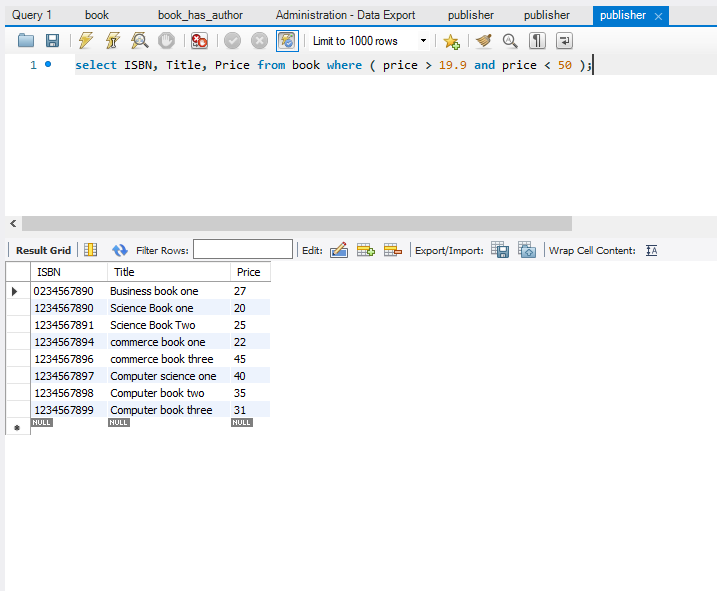
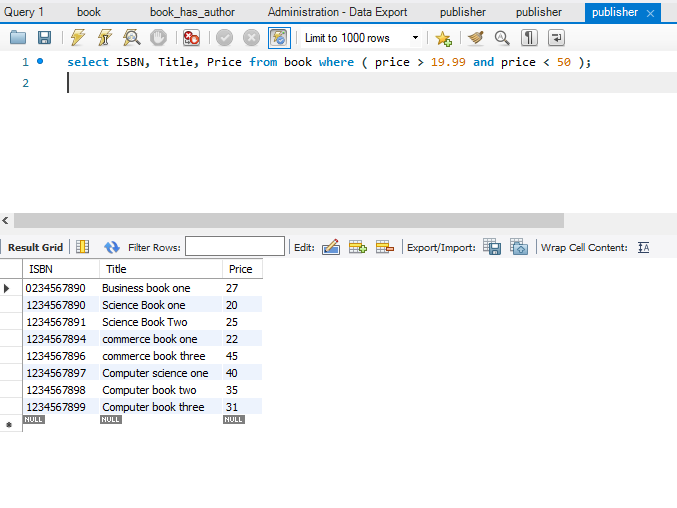
change image

Changed region(s): [[0.0, 0.3543, 0.9616, 0.8563], [0.0, 0.0, 1.0, 0.1476]]

diff --git a/readme.md b/readme.md
@@ -4,7 +4,7 @@ and less than $50.00.
 
 ### Sql query
 ~~~sql
-select ISBN, Title, Price from book where ( price > 19.9 and price < 50 );
+select ISBN, Title, Price from book where ( price > 19.99 and price < 50 );
 ~~~
 ### Output Result 
 <img src="query_output/a.PNG" alt="">     
